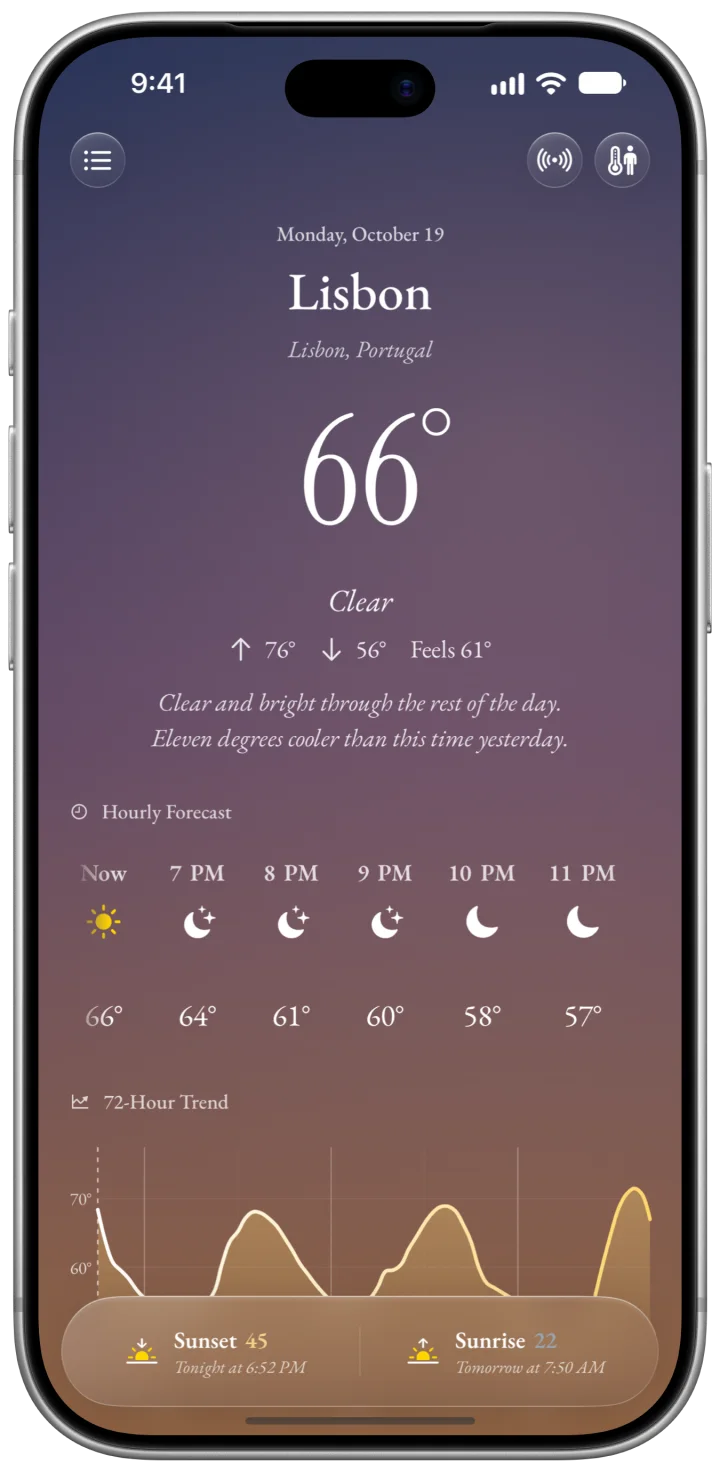
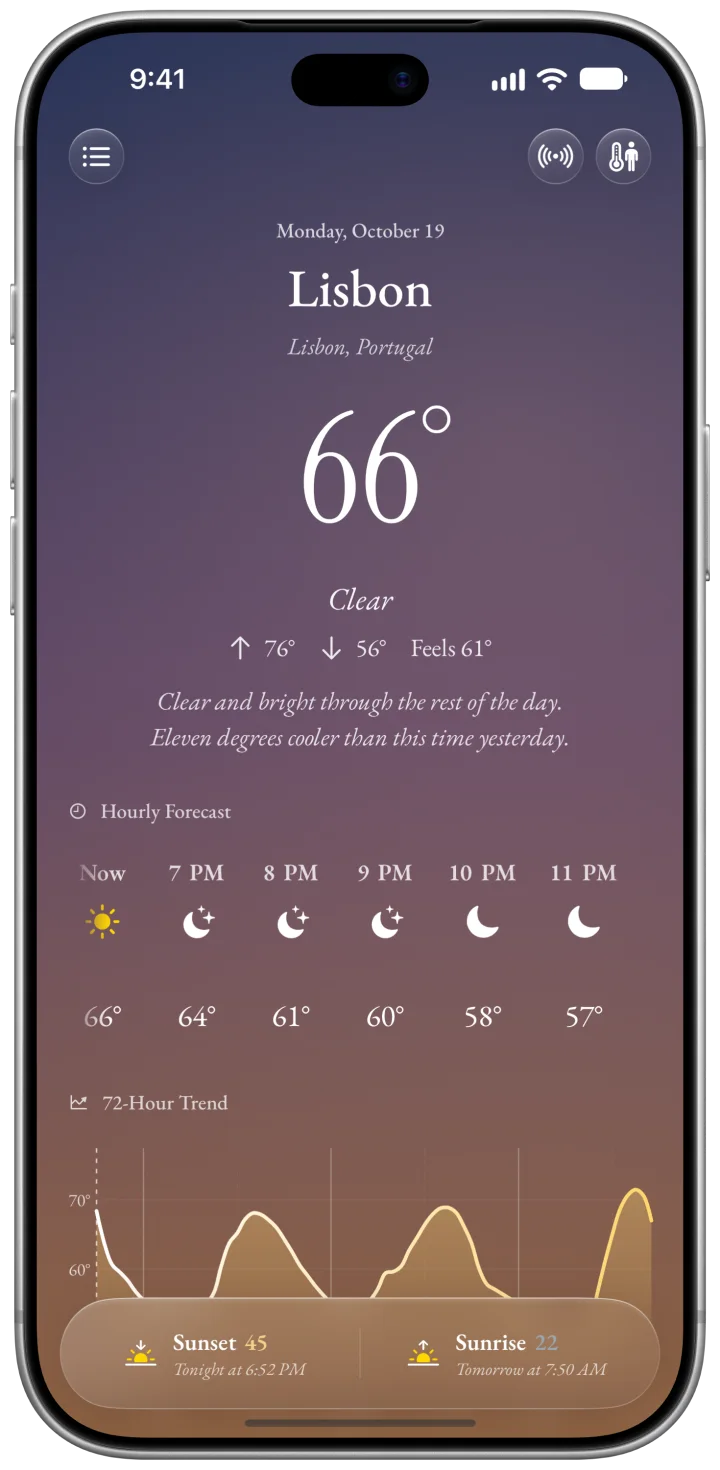
Haze page: iPhone shots in the silver 18 Pro Max frame

diff --git a/haze/index.html b/haze/index.html
@@ -76,7 +76,7 @@
         </div>
       </div>
       <figure class="cover__phone">
-        <img src="/assets/img/haze/v3/framed-phone-night.webp" alt="Haze on iPhone at night in Sydney: 57 degrees under a clear sky" width="720" height="1472">
+        <img src="/assets/img/haze/v3/framed-phone-night.webp" alt="Haze on iPhone at night in Sydney: 57 degrees under a clear sky" width="720" height="1470">
       </figure>
       <p class="cover__scroll">Read on, and the day breaks.</p>
     </section>
@@ -89,7 +89,7 @@
       </header>
       <div class="hour__body hour__body--phone">
         <figure class="phone">
-          <img src="/assets/img/haze/v3/framed-phone-dawn.webp" alt="Haze at dawn in Honolulu: 77 degrees and mainly clear, under a pink sky" width="720" height="1472" loading="lazy">
+          <img src="/assets/img/haze/v3/framed-phone-dawn.webp" alt="Haze at dawn in Honolulu: 77 degrees and mainly clear, under a pink sky" width="720" height="1470" loading="lazy">
         </figure>
         <div class="hour__text">
           <h2 id="dawn-title">A sky that keeps the hour</h2>
@@ -136,10 +136,10 @@
           <p>A score for how good tonight's sunset or tomorrow's sunrise will look, judged from the cloud the forecast promises: high cloud is the canvas, low cloud the wall. Golden hour times come with it, and a heads-up if you want one.</p>
         </div>
         <figure class="phone">
-          <img src="/assets/img/haze/v3/framed-phone-dusk.webp" alt="Haze at dusk in Lisbon: 66 degrees and clear, minutes before sunset" width="720" height="1472" loading="lazy">
+          <img src="/assets/img/haze/v3/framed-phone-dusk.webp" alt="Haze at dusk in Lisbon: 66 degrees and clear, minutes before sunset" width="720" height="1470" loading="lazy">
         </figure>
         <figure class="phone phone--raised">
-          <img src="/assets/img/haze/v3/framed-phone-sunset.webp" alt="A sunset rated 74, great, on the sun page in Haze" width="720" height="1472" loading="lazy">
+          <img src="/assets/img/haze/v3/framed-phone-sunset.webp" alt="A sunset rated 74, great, on the sun page in Haze" width="720" height="1470" loading="lazy">
         </figure>
       </div>
       <div class="hour__pair hour__pair--flip">
